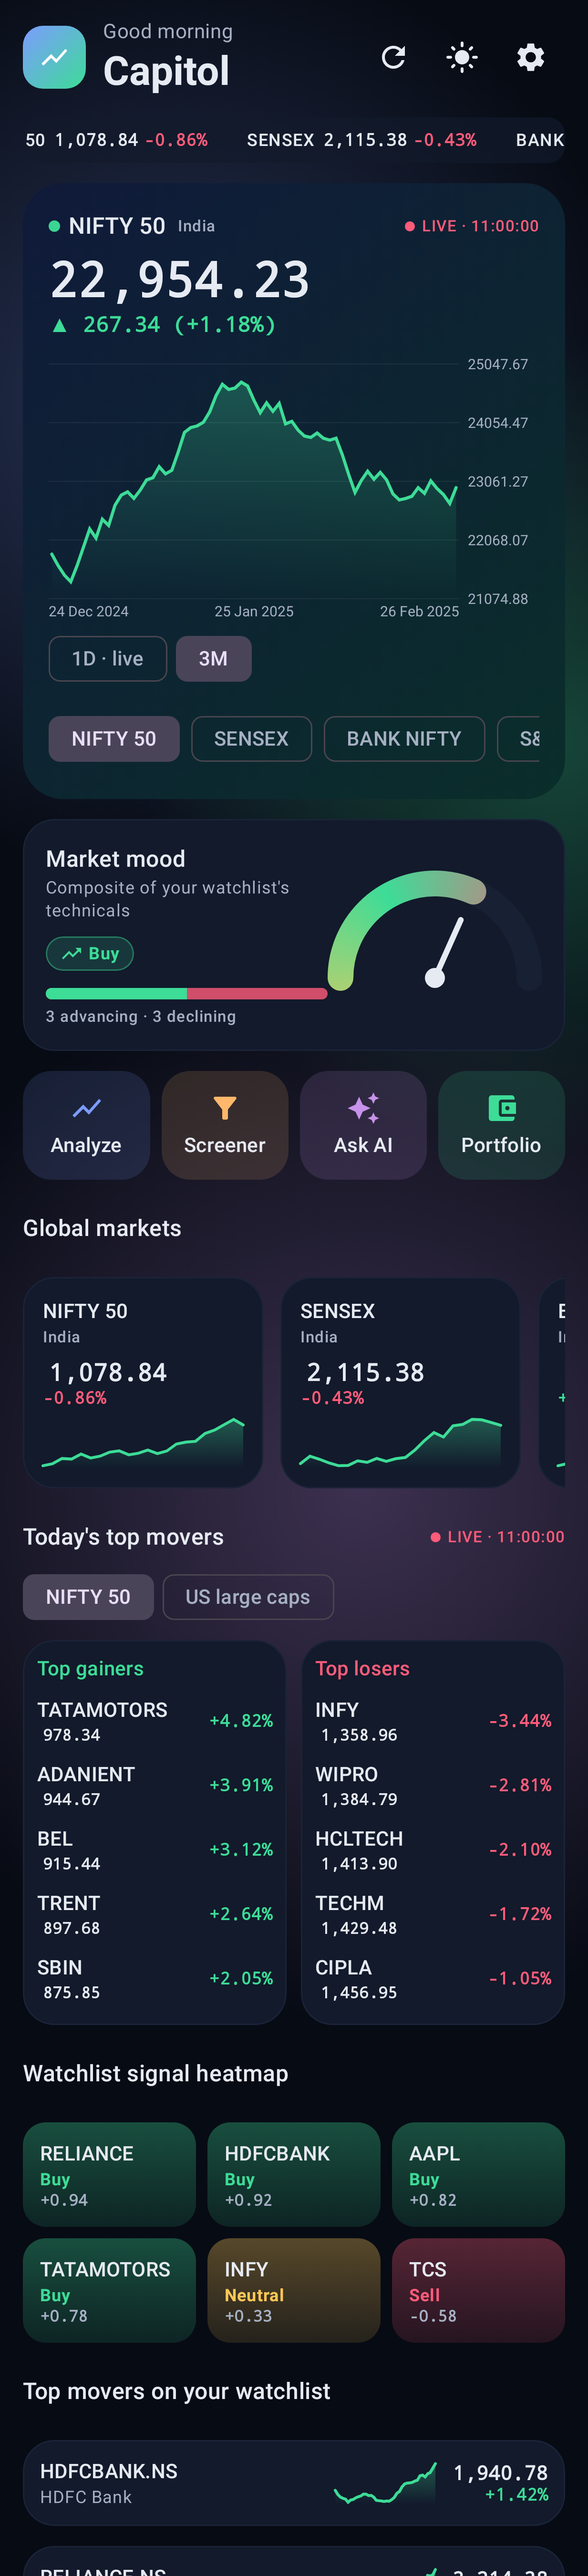
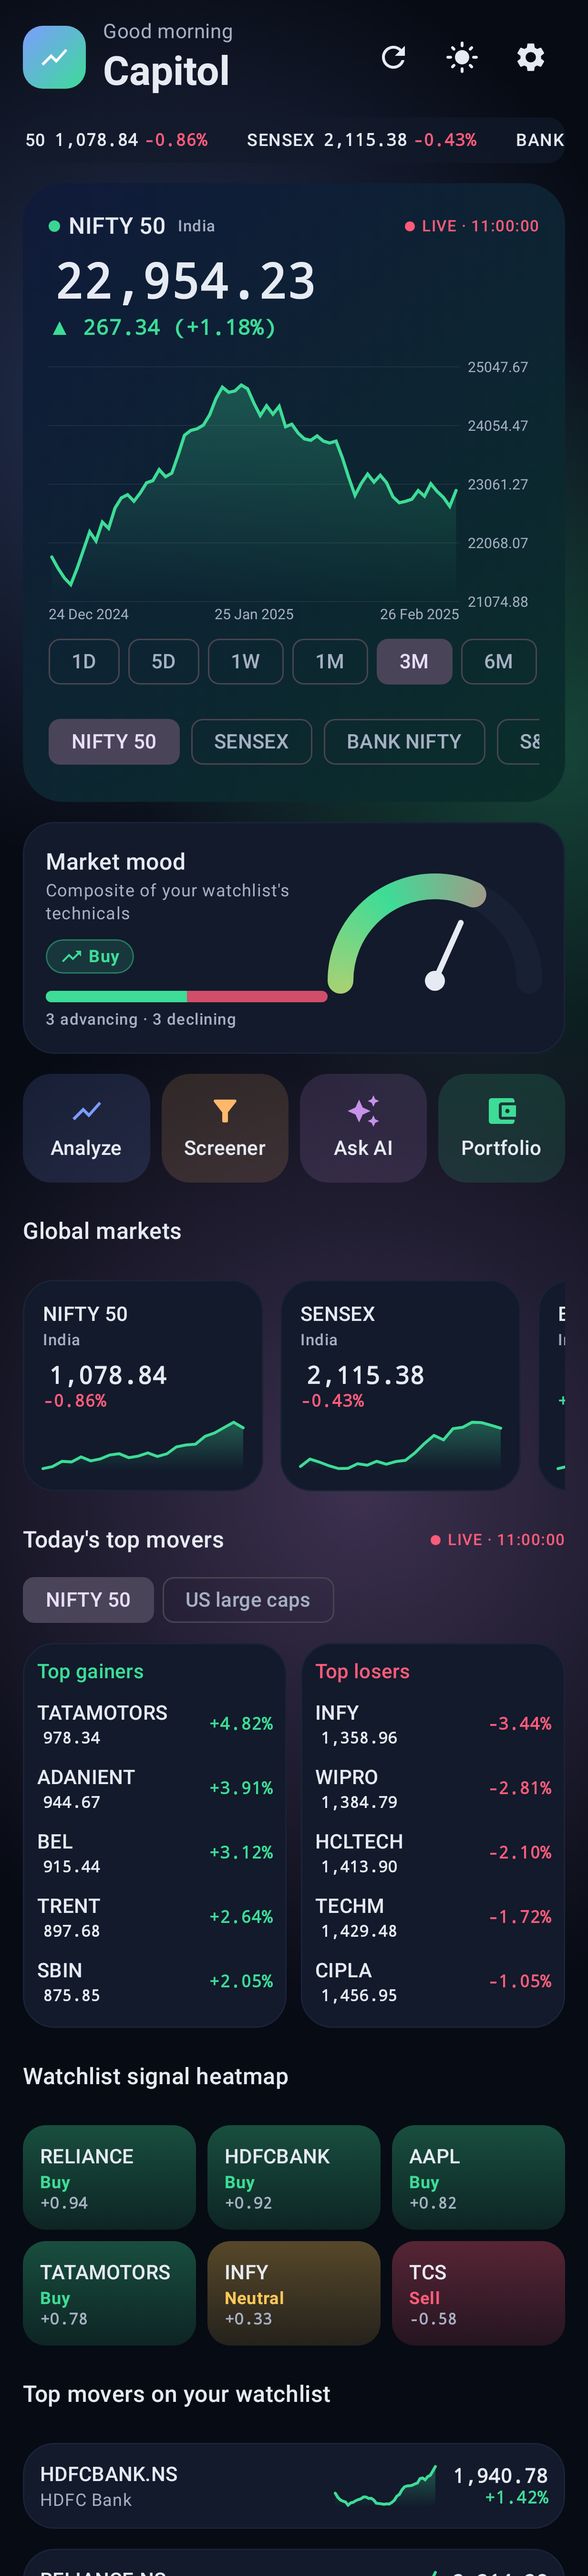
Live updates change prices only; chart ranges 1D 5D 1W 1M 3M 6M 1Y 3Y 5Y (#8)
* Add Capitol Android app: technical analysis, watchlist, AI agent, broker sync

- Kotlin/Jetpack Compose app with animated home page, dark/light themes
- Yahoo Finance data via yfinance endpoints on-device, or a bundled
  FastAPI service that wraps yfinance directly (backend/)
- 21 indicators with multi-select filter, per-indicator live explanations,
  composite verdict, key levels and synthesis of the selected set
- Watchlist with price alerts and background autopilot notifications
- Claude-powered agent (anthropic-java) using on-device analysis tools
- Read-only Zerodha Kite Connect and INDmoney (INDstocks) holdings sync,
  plus CSV import
- In-app updates: Play in-app update flow + GitHub Releases self-updater
- CI workflow building, testing and publishing release APKs
- Unit tests for indicator math, analyzer and parsers; screenshot tests

Claude-Session: https://claude.ai/code/session_01MYsMHGTrNtxnE7gzxN54RY

* Fix home page not reflecting watchlist changes; plot oscillators on the analysis chart

- HomeViewModel now observes the watchlist and default indicators and
  refreshes movers, heatmap, mood and breadth whenever they change
- Watchlist verdicts are recomputed when default indicators change
- Analysis chart draws every selected separate-pane indicator (RSI, MACD,
  Stochastic, ADX, OBV, MFI, CCI, %R, ROC, ATR, Volume) as a labelled pane
  under the price chart, with a hint when nothing is selected
[…]

diff --git a/app/src/test/java/com/capitol/app/LiveTest.kt b/app/src/test/java/com/capitol/app/LiveTest.kt
@@ -5,12 +5,10 @@ import com.capitol.app.data.live.LiveQuote
 import com.capitol.app.data.live.LiveQuotes
 import com.capitol.app.data.live.PricingDecoder
 import com.capitol.app.data.live.YahooStreamer
-import com.capitol.app.data.market.Candle
 import com.capitol.app.data.market.ChartRange
 import com.capitol.app.data.market.Fundamentals
 import com.capitol.app.data.market.MarketDataSource
 import com.capitol.app.data.market.NewsItem
-import com.capitol.app.data.market.PriceSeries
 import com.capitol.app.data.market.QuoteSnapshot
 import com.capitol.app.data.market.SymbolMatch
 import com.capitol.app.data.market.YahooFinanceDataSource
@@ -29,7 +27,6 @@ import okhttp3.mockwebserver.MockResponse
 import okhttp3.mockwebserver.MockWebServer
 import org.junit.Assert.assertEquals
 import org.junit.Assert.assertNull
-import org.junit.Assert.assertSame
 import org.junit.Assert.assertTrue
 import org.junit.Test
 import java.util.concurrent.LinkedBlockingQueue
@@ -89,24 +86,27 @@ class LiveTest {
         }
     }
 
-    private fun series(times: List<Long>, closes: List<Double>) = PriceSeries("^NSEI", "NIFTY", "INR", "NSE",
-        times.zip(closes).map { (t, c) -> Candle(t, c, c, c, c, 0.0) }, closes.last(), 100.0)
-
-    @Test fun liveCandleMerging() {
-        val base = 1_764_230_400L // aligned to 300 s
-        val s = series(listOf(base, base + 300), listOf(100.0, 101.0))
-        // Same 5-minute bucket → updates the last candle.
-        val a = LiveCandles.merge(s, LiveQuote("^NSEI", 103.0, 3.0, 3.0, time = (base + 420) * 1000), 300)
-        assertEquals(2, a.candles.size); assertEquals(103.0, a.candles.last().close, 0.0); assertEquals(103.0, a.candles.last().high, 0.0)
-        assertEquals(103.0, a.regularMarketPrice, 0.0); assertEquals(100.0, a.previousClose, 1e-9)
-        // Next bucket → appends.
-        val b = LiveCandles.merge(a, LiveQuote("^NSEI", 99.0, -1.0, -1.0, time = (base + 610) * 1000), 300)
-        assertEquals(3, b.candles.size); assertEquals(base + 600, b.candles.last().time); assertEquals(103.0, b.candles.last().open, 0.0)
-        // Older tick or other symbol → unchanged.
-        assertSame(b, LiveCandles.merge(b, LiveQuote("^NSEI", 50.0, 0.0, 0.0, time = base * 1000), 300))
-        assertSame(b, LiveCandles.merge(b, LiveQuote("TCS.NS", 50.0, 0.0, 0.0, time = (base + 900) * 1000), 300))
-        // Weekly: Long.MAX bucket keeps updating the latest bar.
-        assertEquals(3, LiveCandles.merge(b, LiveQuote("^NSEI", 98.0, 0.0, 0.0, time = (base + 99_999) * 1000), Long.MAX_VALUE).candles.size)
+    @Test fun chartRangesOfferedAndCustomWindowsUseDates() {
+        assertEquals(listOf("1D", "5D", "1W", "1M", "3M", "6M", "1Y", "3Y", "5Y"), ChartRange.PICKER.map { it.label })
+        MockWebServer().use { server ->
+            val chart = """{"chart":{"result":[{"meta":{"symbol":"TCS.NS","currency":"INR","regularMarketPrice":12.0},
+                "timestamp":[1700000000,1700086400],"indicators":{"quote":[{"open":[10,11],"high":[10,11],"low":[10,11],"close":[10,12],"volume":[1,1]}]}}],"error":null}}"""
+            repeat(3) { server.enqueue(MockResponse().setBody(chart)) }
+            val yahoo = YahooFinanceDataSource(OkHttpClient(), server.url("").toString().trimEnd('/'))
+            runBlocking {
+                yahoo.history("TCS.NS", ChartRange.W1)
+                yahoo.history("TCS.NS", ChartRange.Y3)
+                yahoo.history("TCS.NS", ChartRange.D5)
+            }
+            val w = server.takeRequest().requestUrl!!
+            assertNull(w.queryParameter("range"))
+            val span = w.queryParameter("period2")!!.toLong() - w.queryParameter("period1")!!.toLong()
+            assertEquals(7 * 86_400L, span); assertEquals("30m", w.queryParameter("interval"))
+            val y = server.takeRequest().requestUrl!!
+            assertEquals(3 * 365 * 86_400L, y.queryParameter("period2")!!.toLong() - y.queryParameter("period1")!!.toLong())
+            val d = server.takeRequest().requestUrl!!
+            assertEquals("5d", d.queryParameter("range")); assertNull(d.queryParameter("period1"))
+        }
     }
 
     @Test fun snapshotsAndMovers() {

diff --git a/app/src/main/java/com/capitol/app/ui/home/HomeViewModel.kt b/app/src/main/java/com/capitol/app/ui/home/HomeViewModel.kt
@@ -6,7 +6,6 @@ import com.capitol.app.AppContainer
 import com.capitol.app.analysis.AnalysisReport
 import com.capitol.app.analysis.TechnicalAnalyzer
 import com.capitol.app.data.market.ChartRange
-import com.capitol.app.data.market.isIntraday
 import com.capitol.app.data.market.PriceSeries
 import com.capitol.app.data.market.QuoteSnapshot
 import kotlinx.coroutines.async
@@ -32,8 +31,10 @@ data class HomeState(
     val watch: List<QuoteSnapshot> = emptyList(),
     val signals: List<AnalysisReport> = emptyList(),
     val error: String? = null,
-    /** Hero chart window: 1D (live, 5-minute bars) or 3M (daily). */
+    /** Hero chart window (charts aren't modified by live ticks; only prices are). */
     val heroRange: ChartRange = ChartRange.D1,
+    /** Live price for the hero symbol, shown in the hero header. */
+    val heroQuote: com.capitol.app.data.live.LiveQuote? = null,
     val moversUniverse: com.capitol.app.analysis.Universe = com.capitol.app.analysis.Universe.NIFTY50,
     val gainers: List<com.capitol.app.data.live.LiveQuote> = emptyList(),
     val losers: List<com.capitol.app.data.live.LiveQuote> = emptyList(),
@@ -100,9 +101,7 @@ class HomeViewModel(private val c: AppContainer) : ViewModel() {
     private fun loadHero(force: Boolean = false) = viewModelScope.launch {
         val st = _state.value
         runCatching { c.market.history(st.heroIndex.symbol, st.heroRange, force) }.onSuccess { s ->
-            // Apply the latest live tick straight away so the chart doesn't jump back.
-            val q = c.live.quotes.value[s.symbol]
-            _state.value = _state.value.copy(hero = q?.let { com.capitol.app.data.live.LiveCandles.merge(s, it, bucket(st.heroRange)) } ?: s)
+            _state.value = _state.value.copy(hero = s, heroQuote = c.live.quotes.value[s.symbol])
         }
     }
 
@@ -120,16 +119,13 @@ class HomeViewModel(private val c: AppContainer) : ViewModel() {
         c.live.watch(OWNER, INDICES.map { it.symbol } + st.heroIndex.symbol + st.watch.map { it.symbol } + moverSymbols())
     }
 
-    private fun bucket(r: ChartRange) = if (r.isIntraday) 300L else 86_400L
-
     private fun applyLive(quotes: Map<String, com.capitol.app.data.live.LiveQuote>) {
         if (quotes.isEmpty()) return
         val st = _state.value
-        val hero = st.hero?.let { h -> quotes[h.symbol]?.let { com.capitol.app.data.live.LiveCandles.merge(h, it, bucket(st.heroRange)) } ?: h }
         val (g, l) = com.capitol.app.data.live.LiveCandles.movers(quotes, moverSymbols())
         val relevant = (INDICES.map { it.symbol } + st.heroIndex.symbol + st.watch.map { it.symbol } + moverSymbols()).mapNotNull { quotes[it] }
         _state.value = st.copy(
-            hero = hero,
+            heroQuote = quotes[st.heroIndex.symbol] ?: st.heroQuote,
             indices = st.indices.map { (i, snap) -> i to (quotes[snap.symbol]?.let { com.capitol.app.data.live.LiveCandles.apply(snap, it) } ?: snap) },
             watch = st.watch.map { snap -> quotes[snap.symbol]?.let { com.capitol.app.data.live.LiveCandles.apply(snap, it) } ?: snap },
             gainers = g, losers = l,

diff --git a/app/src/main/java/com/capitol/app/ui/analysis/AnalysisViewModel.kt b/app/src/main/java/com/capitol/app/ui/analysis/AnalysisViewModel.kt
@@ -46,6 +46,8 @@ data class AnalysisState(
     val tradePlan: com.capitol.app.analysis.TradePlan? = null,
     val streaming: Boolean = false,
     val lastTick: Long? = null,
+    /** Live price/day change for the open symbol (the chart itself isn't modified). */
+    val liveQuote: com.capitol.app.data.live.LiveQuote? = null,
 ) {
     /** True when the daily and weekly verdicts point the same way. */
     val timeframesAligned: Boolean? get() = timeframes.takeIf { it.size >= 2 }?.map { it.second.verdict }?.let { v ->
@@ -71,7 +73,6 @@ class AnalysisViewModel(private val c: AppContainer) : ViewModel() {
     private var loadJob: Job? = null
 
     private var active = false
-    private var lastRecompute = 0L
 
     /** Live updates only while the screen is visible. */
     fun setActive(on: Boolean) {
@@ -80,23 +81,10 @@ class AnalysisViewModel(private val c: AppContainer) : ViewModel() {
         if (on && sym != null) c.live.watch(OWNER, listOf(sym)) else c.live.release(OWNER)
     }
 
-    private fun liveBucket(r: ChartRange): Long = when {
-        r.interval.endsWith("m") -> r.interval.dropLast(1).toLong() * 60
-        r.interval.endsWith("h") -> r.interval.dropLast(1).toLong() * 3600
-        r.interval == "1d" -> 86_400L
-        else -> Long.MAX_VALUE // weekly+: only update the latest bar
-    }
-
     private fun onLive(quotes: Map<String, com.capitol.app.data.live.LiveQuote>) {
-        val st = _state.value
-        val s = st.series ?: return
-        val q = quotes[s.symbol] ?: return
-        val merged = com.capitol.app.data.live.LiveCandles.merge(s, q, liveBucket(st.range))
-        if (merged === s) return
-        _state.value = st.copy(series = merged, lastTick = q.time)
-        // Indicators are heavier: recompute at most every 10 seconds.
-        val now = System.currentTimeMillis()
-        if (now - lastRecompute > 10_000) { lastRecompute = now; recompute() }
+        val sym = _state.value.series?.symbol ?: return
+        val q = quotes[sym] ?: return
+        if (q != _state.value.liveQuote) _state.value = _state.value.copy(liveQuote = q, lastTick = q.time)
     }
 
     override fun onCleared() { c.live.release(OWNER) }
@@ -137,7 +125,7 @@ class AnalysisViewModel(private val c: AppContainer) : ViewModel() {
         val s = symbol.trim().uppercase()
         if (s.isEmpty()) return
         _state.value = _state.value.copy(symbol = s, query = "", suggestions = emptyList(),
-            fundamentals = null, news = emptyList(), backtest = null, timeframes = emptyList())
+            fundamentals = null, news = emptyList(), backtest = null, timeframes = emptyList(), liveQuote = null, lastTick = null)
         load()
         loadExtras(s)
         if (active) c.live.watch(OWNER, listOf(s))

diff --git a/app/src/main/java/com/capitol/app/ui/analysis/AnalysisScreen.kt b/app/src/main/java/com/capitol/app/ui/analysis/AnalysisScreen.kt
@@ -142,8 +142,9 @@ fun AnalysisScreen(vm: AnalysisViewModel, initialSymbol: String?, onCompare: (St
                         Text(series.name, style = MaterialTheme.typography.titleLarge, maxLines = 2, overflow = TextOverflow.Ellipsis)
                         Text("${series.symbol} · ${series.exchange} · ${series.currency}", style = MaterialTheme.typography.bodySmall, color = MaterialTheme.colorScheme.onSurfaceVariant)
                         Spacer(Modifier.height(4.dp))
-                        com.capitol.app.ui.components.FlashingPrice(series.regularMarketPrice, fontSize = 28)
-                        ChangeText(series.change, series.changePercent)
+                        val q = st.liveQuote
+                        com.capitol.app.ui.components.FlashingPrice(q?.price ?: series.regularMarketPrice, fontSize = 28)
+                        if (q != null) ChangeText(q.change, q.changePercent) else ChangeText(series.change, series.changePercent)
                         com.capitol.app.ui.components.LiveBadge(st.streaming, st.lastTick,
                             if (series.symbol.endsWith(".NS") || series.symbol.endsWith(".BO") || series.symbol.startsWith("^NSE") || series.symbol == "^BSESN")
                                 com.capitol.app.data.market.MarketHours.indiaOpen()
@@ -160,7 +161,7 @@ fun AnalysisScreen(vm: AnalysisViewModel, initialSymbol: String?, onCompare: (St
             }
             item {
                 LazyRow(horizontalArrangement = Arrangement.spacedBy(6.dp)) {
-                    items(ChartRange.entries) { r -> FilterChip(r == st.range, { vm.setRange(r) }, { Text(r.label) }) }
+                    items(ChartRange.PICKER) { r -> FilterChip(r == st.range, { vm.setRange(r) }, { Text(r.label) }) }
                     item {
                         IconButton({ chartMode = if (chartMode == PriceChartMode.CANDLES) PriceChartMode.LINE else PriceChartMode.CANDLES }) {
                             Icon(if (chartMode == PriceChartMode.CANDLES) Icons.AutoMirrored.Filled.ShowChart else Icons.Default.CandlestickChart, "Chart type")

diff --git a/app/src/main/java/com/capitol/app/ui/home/HomeScreen.kt b/app/src/main/java/com/capitol/app/ui/home/HomeScreen.kt
@@ -271,13 +271,16 @@ private fun HeroCard(st: HomeState, onSelect: (MarketIndex) -> Unit, onOpen: (St
             }
             Spacer(Modifier.height(6.dp))
             if (hero != null) {
-                AnimatedNumber(hero.regularMarketPrice, fontSize = 34)
-                ChangeText(hero.change, hero.changePercent, fontSize = 15)
+                // Live price and day change; the chart below stays as loaded.
+                val q = st.heroQuote
+                com.capitol.app.ui.components.FlashingPrice(q?.price ?: hero.regularMarketPrice, fontSize = 34)
+                if (q != null) ChangeText(q.change, q.changePercent, fontSize = 15) else ChangeText(hero.change, hero.changePercent, fontSize = 15)
                 Spacer(Modifier.height(10.dp))
                 PriceChart(hero.candles, mode = PriceChartMode.LINE, height = 190.dp, intraday = st.heroRange.isIntraday)
-                Row(horizontalArrangement = Arrangement.spacedBy(6.dp)) {
-                    FilterChip(st.heroRange == com.capitol.app.data.market.ChartRange.D1, { onRange(com.capitol.app.data.market.ChartRange.D1) }, { Text("1D · live") })
-                    FilterChip(st.heroRange == com.capitol.app.data.market.ChartRange.M3, { onRange(com.capitol.app.data.market.ChartRange.M3) }, { Text("3M") })
+                LazyRow(horizontalArrangement = Arrangement.spacedBy(6.dp)) {
+                    items(com.capitol.app.data.market.ChartRange.PICKER) { r ->
+                        FilterChip(st.heroRange == r, { onRange(r) }, { Text(r.label) })
+                    }
                 }
             } else {
                 ShimmerBox(Modifier.fillMaxWidth().height(240.dp))

diff --git a/app/src/main/java/com/capitol/app/data/live/LiveCandles.kt b/app/src/main/java/com/capitol/app/data/live/LiveCandles.kt
@@ -1,31 +1,9 @@
 package com.capitol.app.data.live
 
-import com.capitol.app.data.market.Candle
-import com.capitol.app.data.market.PriceSeries
 import com.capitol.app.data.market.QuoteSnapshot
 
-/** Applies live ticks to charts and snapshots. */
+/** Applies live prices to quote snapshots and ranks movers. (Charts are not modified by live ticks.) */
 object LiveCandles {
-    /**
-     * Merges [q] into [s]: updates the candle whose [bucketSec] window contains the tick, or
-     * appends a new one. Ticks older than the last candle are ignored.
-     */
-    fun merge(s: PriceSeries, q: LiveQuote, bucketSec: Long): PriceSeries {
-        if (!q.symbol.equals(s.symbol, true) || s.candles.isEmpty()) return s
-        val t = q.time / 1000
-        val bucket = t - Math.floorMod(t, bucketSec)
-        val last = s.candles.last()
-        val lastBucket = last.time - Math.floorMod(last.time, bucketSec)
-        val candles = when {
-            bucket < lastBucket -> return s
-            bucket == lastBucket -> s.candles.dropLast(1) + last.copy(
-                high = maxOf(last.high, q.price), low = minOf(last.low, q.price), close = q.price)
-            else -> s.candles + Candle(bucket, last.close, maxOf(last.close, q.price), minOf(last.close, q.price), q.price, 0.0)
-        }
-        val prev = if (q.change != 0.0) q.price - q.change else s.previousClose
-        return s.copy(candles = candles, regularMarketPrice = q.price, previousClose = prev)
-    }
-
     fun apply(snap: QuoteSnapshot, q: LiveQuote): QuoteSnapshot = snap.copy(
         price = q.price,
         change = if (q.change != 0.0 || q.changePercent != 0.0) q.change else snap.change,

diff --git a/app/src/main/java/com/capitol/app/data/market/Models.kt b/app/src/main/java/com/capitol/app/data/market/Models.kt
@@ -53,15 +53,34 @@ data class QuoteSnapshot(
  * Period / interval pairs mirror the values accepted by yfinance's
  * `Ticker.history(period=..., interval=...)`.
  */
-enum class ChartRange(val label: String, val period: String, val interval: String) {
+enum class ChartRange(
+    val label: String,
+    val period: String,
+    val interval: String,
+    /**
+     * Calendar-day lookback for windows Yahoo's `range` parameter doesn't offer (1 week,
+     * 3 years); fetched with explicit start/end dates instead, like yfinance's `start=`.
+     */
+    val days: Int? = null,
+    /** Shown in the chart range pickers (2Y is used internally, e.g. by the backtester). */
+    val inPicker: Boolean = true,
+) {
     D1("1D", "1d", "5m"),
-    W1("1W", "5d", "30m"),
-    M1("1M", "1mo", "1d"),
+    D5("5D", "5d", "15m"),
+    W1("1W", "7d", "30m", days = 7),
+    M1("1M", "1mo", "1h"),
     M3("3M", "3mo", "1d"),
     M6("6M", "6mo", "1d"),
     Y1("1Y", "1y", "1d"),
-    Y2("2Y", "2y", "1d"),
+    Y2("2Y", "2y", "1d", inPicker = false),
+    Y3("3Y", "3y", "1d", days = 3 * 365),
     Y5("5Y", "5y", "1wk"),
+    ;
+
+    companion object {
+        /** The ranges offered on charts: 1D 5D 1W 1M 3M 6M 1Y 3Y 5Y. */
+        val PICKER: List<ChartRange> get() = entries.filter { it.inPicker }
+    }
 }
 
 fun PriceSeries.toSnapshot() = QuoteSnapshot(

diff --git a/app/src/main/java/com/capitol/app/data/market/YahooFinanceDataSource.kt b/app/src/main/java/com/capitol/app/data/market/YahooFinanceDataSource.kt
@@ -38,7 +38,15 @@ class YahooFinanceDataSource(
 
     override suspend fun history(symbol: String, range: ChartRange): PriceSeries = withContext(Dispatchers.IO) {
         val url = "$base/v8/finance/chart/${symbol.trim().uppercase()}".toHttpUrl().newBuilder()
-            .addQueryParameter("range", range.period)
+            .apply {
+                val days = range.days
+                if (days == null) addQueryParameter("range", range.period)
+                else {
+                    val now = System.currentTimeMillis() / 1000
+                    addQueryParameter("period1", (now - days * 86_400L).toString())
+                    addQueryParameter("period2", now.toString())
+                }
+            }
             .addQueryParameter("interval", range.interval)
             .addQueryParameter("includePrePost", "false")
             .addQueryParameter("events", "div,splits")

diff --git a/app/src/main/java/com/capitol/app/data/market/YFinanceBackendDataSource.kt b/app/src/main/java/com/capitol/app/data/market/YFinanceBackendDataSource.kt
@@ -38,7 +38,7 @@ class YFinanceBackendDataSource(
     override suspend fun history(symbol: String, range: ChartRange): PriceSeries = withContext(Dispatchers.IO) {
         val url = endpoint("history")
             .addQueryParameter("symbol", symbol.trim().uppercase())
-            .addQueryParameter("period", range.period)
+            .apply { range.days?.let { addQueryParameter("days", it.toString()) } ?: addQueryParameter("period", range.period) }
             .addQueryParameter("interval", range.interval)
             .build()
         val dto = json.decodeFromString<HistoryDto>(get(url.toString()))

diff --git a/backend/app.py b/backend/app.py
@@ -53,12 +53,19 @@ def history(
     symbol: str = Query(..., min_length=1, max_length=32),
     period: str = "1y",
     interval: str = "1d",
+    days: int | None = Query(None, ge=1, le=3650),
 ) -> dict[str, Any]:
-    if period not in VALID_PERIODS or interval not in VALID_INTERVALS:
+    """Price history by yfinance period, or by a calendar-day lookback (`days`, e.g. 7 or 1095)."""
+    if (days is None and period not in VALID_PERIODS) or interval not in VALID_INTERVALS:
         raise HTTPException(400, "invalid period or interval")
     symbol = symbol.strip().upper()
     ticker = yf.Ticker(symbol)
-    df = ticker.history(period=period, interval=interval, auto_adjust=False)
+    if days is not None:
+        from datetime import datetime, timedelta, timezone
+        start = datetime.now(timezone.utc) - timedelta(days=days)
+        df = ticker.history(start=start, interval=interval, auto_adjust=False)
+    else:
+        df = ticker.history(period=period, interval=interval, auto_adjust=False)
     if df is None or df.empty:
         raise HTTPException(404, f"no data for {symbol}")
 

diff --git a/README.md b/README.md
@@ -46,7 +46,7 @@ Capitol is a native **Kotlin / Jetpack Compose** Android app. It pulls market da
 - **Share or export** an analysis as an image, PDF or text.
 - **App lock** with fingerprint, face or screen lock (*Settings → Security*).
 ![](app/screenshots/report_example.png)
-- **Live market updates**: prices stream from Yahoo Finance's live feed (the same one yfinance's `WebSocket` uses). This covers the home hero chart (1D live mode), index cards, watchlist movers and the Analyze chart, with prices that flash green or red on each tick and a LIVE / DELAYED / MARKET CLOSED badge. If the stream is unavailable, Capitol falls back to refreshing quotes every 15 seconds. Live updates pause when the screen isn't visible.
+- **Live market updates**: prices stream from Yahoo Finance's live feed (the same one yfinance's `WebSocket` uses). Live updates change prices and day changes only (home hero price, index cards, ticker, movers and the Analyze price header), and prices flash green or red on each tick. Charts aren't redrawn by ticks; they offer 1D, 5D, 1W, 1M, 3M, 6M, 1Y, 3Y and 5Y views and a LIVE / DELAYED / MARKET CLOSED badge. If the stream is unavailable, Capitol falls back to refreshing quotes every 15 seconds. Live updates pause when the screen isn't visible.
 - **Today's top movers**: the top 5 gainers and losers of the day in NIFTY 50 or US large caps, updating live.
 - **Dark and light mode**: System / Light / Dark setting, a quick toggle on the home page, and optional Material You colours on Android 12+.
 
